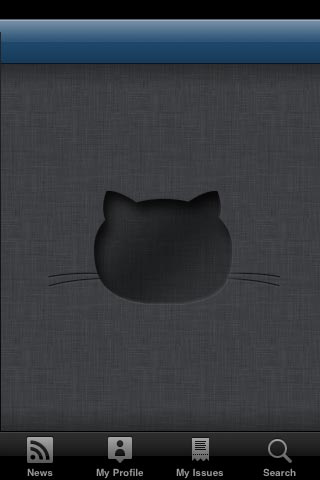
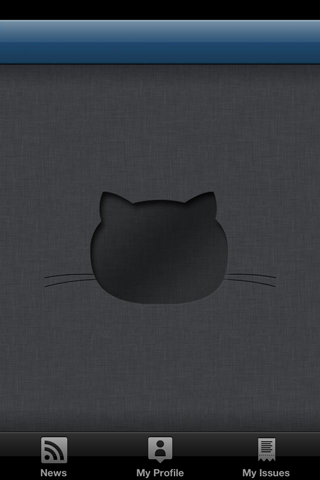
Fixes further iPhone bugs.

diff --git a/iGithub/iPhone/iGithubAppDelegate_iPhone.m b/iGithub/iPhone/iGithubAppDelegate_iPhone.m
@@ -13,7 +13,7 @@
 
 @implementation iGithubAppDelegate_iPhone
 
-@synthesize tabBarController=_tabBarController, newsFeedViewController=_newsFeedViewController, profileViewController=_profileViewController, searchViewController=_searchViewController, issuesOfUserViewController=_issuesOfUserViewController;
+@synthesize tabBarController=_tabBarController, newsFeedViewController=_newsFeedViewController, profileViewController=_profileViewController, issuesOfUserViewController=_issuesOfUserViewController;
 
 - (void)authenticationManagerDidAuthenticateUserCallback:(NSNotification *)notification {
     self.profileViewController.username = [GHAPIAuthenticationManager sharedInstance].authenticatedUser.login;
@@ -72,7 +72,6 @@
         NSArray *viewControllers0 = [dictionary objectForKey:[NSNumber numberWithUnsignedInteger:0]];
         NSArray *viewControllers1 = [dictionary objectForKey:[NSNumber numberWithUnsignedInteger:1]];
         NSArray *viewControllers2 = [dictionary objectForKey:[NSNumber numberWithUnsignedInteger:2]];
-        NSArray *viewControllers3 = [dictionary objectForKey:[NSNumber numberWithUnsignedInteger:3]];
         
         UINavigationController *navigationController = [[UINavigationController alloc] init];
         [navigationController setViewControllers:viewControllers0 animated:NO];
@@ -86,17 +85,12 @@
         [navigationController setViewControllers:viewControllers2 animated:NO];
         [viewControllers addObject:navigationController];
         
-        navigationController = [[UINavigationController alloc] init];
-        [navigationController setViewControllers:viewControllers3 animated:NO];
-        [viewControllers addObject:navigationController];
-        
         self.tabBarController.viewControllers = viewControllers;
         self.tabBarController.selectedIndex = [[dictionary objectForKey:@"self.tabBarController.selectedIndex"] unsignedIntegerValue];
         
         self.newsFeedViewController = [viewControllers0 objectAtIndex:0];
         self.profileViewController = [viewControllers1 objectAtIndex:0];
         self.issuesOfUserViewController = [viewControllers2 objectAtIndex:0];
-        self.searchViewController = [viewControllers3 objectAtIndex:0];
     } else {
         NSMutableArray *tabBarItems = [NSMutableArray array];
         
@@ -111,9 +105,6 @@
         
         self.issuesOfUserViewController = [[GHIssuesOfAuthenticatedUserViewController alloc] init];
         [tabBarItems addObject:[[UINavigationController alloc] initWithRootViewController:self.issuesOfUserViewController] ];
-        
-        self.searchViewController = [[GHSearchViewController alloc] init];
-        [tabBarItems addObject:[[UINavigationController alloc] initWithRootViewController:self.searchViewController] ];
         
         self.tabBarController.viewControllers = tabBarItems;
     }

diff --git a/iGithub/iPhone/iGithubAppDelegate_iPhone.h b/iGithub/iPhone/iGithubAppDelegate_iPhone.h
@@ -20,16 +20,13 @@
     UITabBarController *_tabBarController;
     GHNewsFeedViewController *_newsFeedViewController;
     GHAuthenticatedUserViewController *_profileViewController;
-    GHSearchViewController *_searchViewController;
     GHIssuesOfAuthenticatedUserViewController *_issuesOfUserViewController;
 }
 
 @property (nonatomic, retain) UITabBarController *tabBarController;
 @property (nonatomic, retain) GHNewsFeedViewController *newsFeedViewController;
 @property (nonatomic, retain) GHAuthenticatedUserViewController *profileViewController;
-@property (nonatomic, retain) GHSearchViewController *searchViewController;
 @property (nonatomic, retain) GHIssuesOfAuthenticatedUserViewController *issuesOfUserViewController;
-
 
 - (void)authenticationManagerDidAuthenticateUserCallback:(NSNotification *)notification;
 

diff --git a/iGithub/iPhone/UI/Repository/GHRepositoryViewController.m b/iGithub/iPhone/UI/Repository/GHRepositoryViewController.m
@@ -678,7 +678,7 @@
         return cell;
     } else if (indexPath.section == kUITableViewSectionRecentCommits || indexPath.section == kUITableViewSectionBrowseBranches) {
         if (indexPath.row > 0) {
-            NSString *CellIdentifier = @"UITableViewCellWithLinearGradientBackgroundView";
+            NSString *CellIdentifier = @"UITableViewCellWithLinearGradientBackgroundViewPlain";
             
             GHTableViewCellWithLinearGradientBackgroundView *cell = (GHTableViewCellWithLinearGradientBackgroundView *)[tableView dequeueReusableCellWithIdentifier:CellIdentifier];
             if (!cell) {
